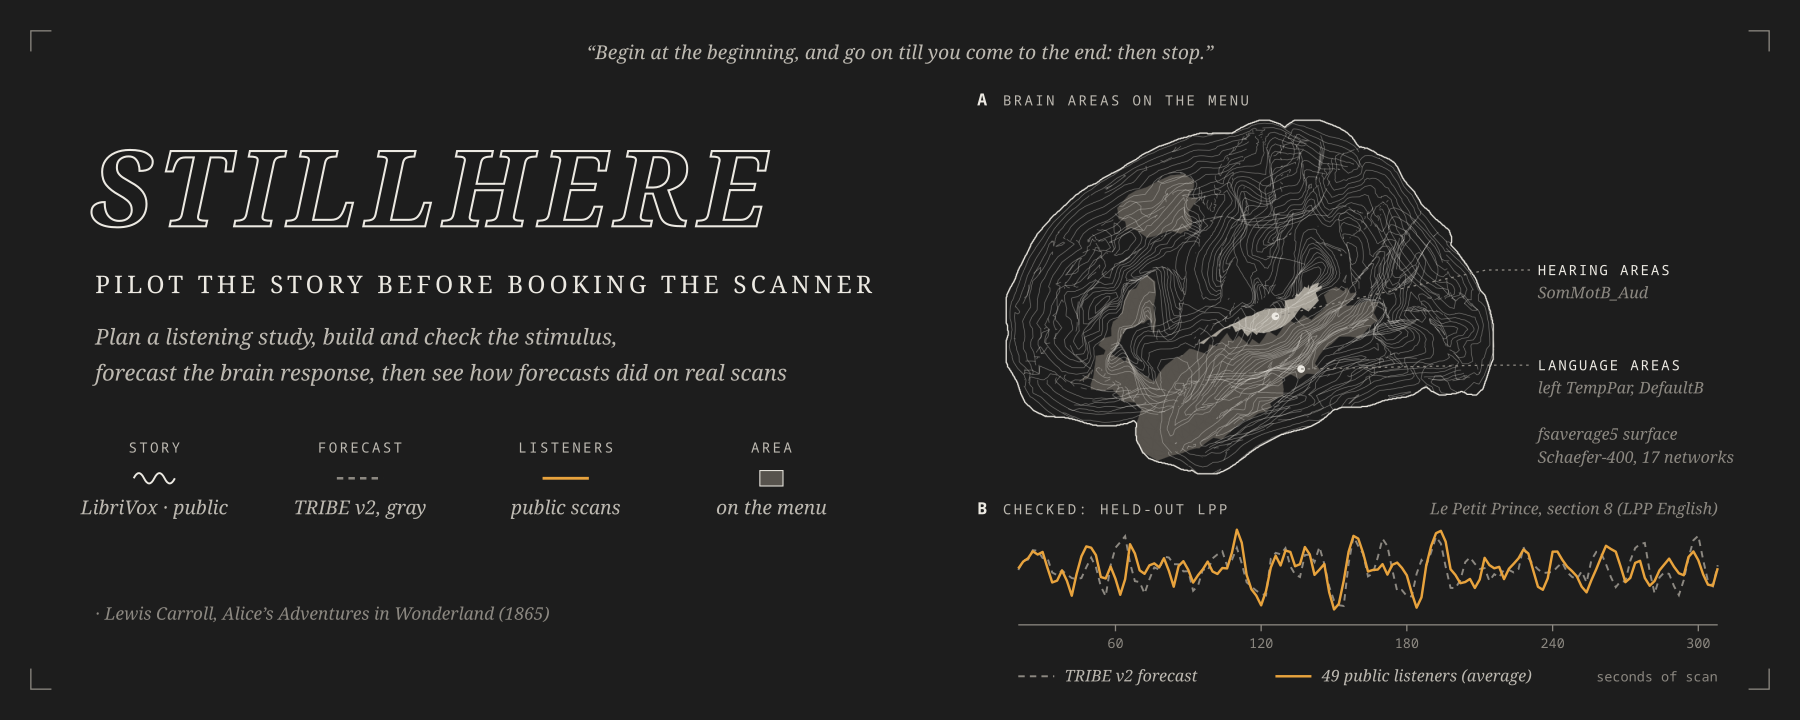
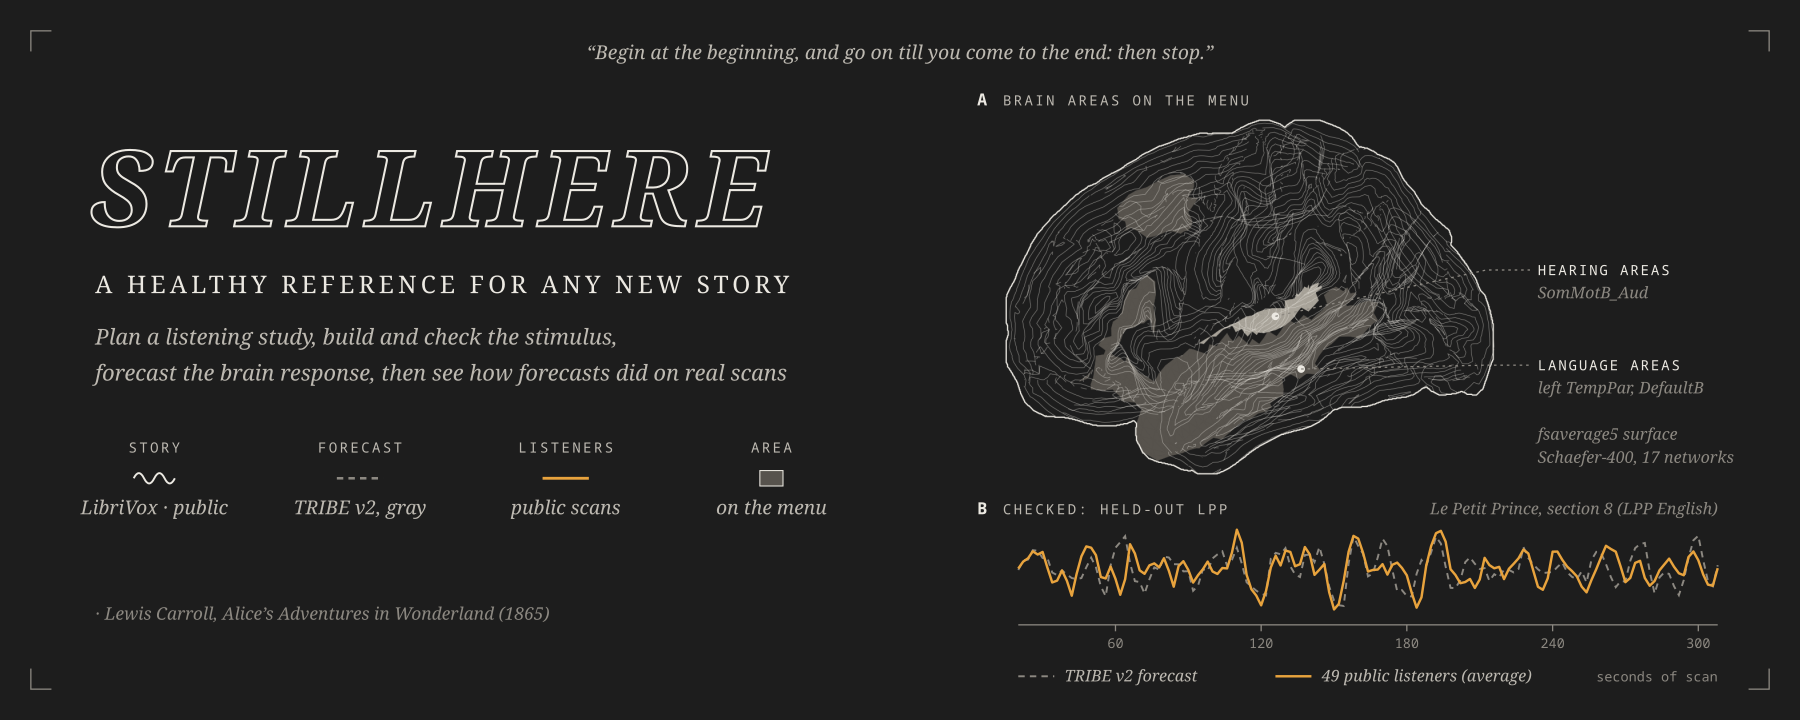
Tagline: a healthy-brain reference for any new story, before anyone is scanned (Yatsu, Nov 1)
Replaces 'Pilot the story before booking the scanner' in the README, the hero image (rebuilt with build_readme_art.py), the video's title cards and the page. The README's opening adds why it matters: a story in the person's own language, or read by someone they know, usually cannot be used, because every new story needs its own healthy volunteers scanned first. No number changed. Suite 554 passed, 10 skipped.

Changed region(s): [[0.0622, 0.3667, 0.4978, 0.4278]]

diff --git a/web/public/index.html b/web/public/index.html
@@ -9,10 +9,10 @@
 <link rel="stylesheet" href="/app.css">
 </head>
 <body>
-<header class="hero"><img src="/hero.png" width="1800" height="720" alt="StillHere: pilot the story before booking the scanner. Panel A: the brain areas on the menu, hearing and language, on a drawing of the left cortex. Panel B: TRIBE v2&#39;s forecast, gray dashed, and 49 public listeners (average), in colour, Le Petit Prince, section 8 (LPP English); checked: held-out LPP."></header>
+<header class="hero"><img src="/hero.png" width="1800" height="720" alt="StillHere: a healthy-brain reference for any new story, before anyone is scanned. Panel A: the brain areas on the menu, hearing and language, on a drawing of the left cortex. Panel B: TRIBE v2&#39;s forecast, gray dashed, and 49 public listeners (average), in colour, Le Petit Prince, section 8 (LPP English); checked: held-out LPP."></header>
 <main>
 <h1 class="vh">StillHere Pilot</h1>
-<p class="lead">Pilot the story before booking the scanner. Type a study; StillHere plans it, builds and checks the stimulus, and
+<p class="lead">A healthy-brain reference for any new story, before anyone is scanned. Type a study; StillHere plans it, builds and checks the stimulus, and
 forecasts the healthy-adult brain response with TRIBE v2, live on a laptop. Research tool. Healthy volunteers and public data only.</p>
 <p class="small" id="status-line">Loading live status.</p>
 <nav class="rail" aria-label="Stations">

diff --git a/scripts/build_readme_art.py b/scripts/build_readme_art.py
@@ -173,7 +173,7 @@ def hero_svg(ghost: dict, brain: bytes) -> str:
          f'B: {ghost["title"]}.">', f'<rect width="{W}" height="{H}" fill="{BG}"/>', crop_marks(W, H),
          T(700, 46, 15, EPIGRAPH, f'{SERIF} font-style="italic" fill="{MUTE}" text-anchor="middle"'),
          T(70, 176, 82, "STILLHERE", f'{SERIF} font-style="italic" font-weight="700" letter-spacing="7" fill="none" stroke="{INK}" stroke-width="1.6"'),
-         T(74, 228, 19, "PILOT THE STORY BEFORE BOOKING THE SCANNER", f'{SERIF} letter-spacing="3.2" fill="{INK}"'),
+         T(74, 228, 19, "A HEALTHY REFERENCE FOR ANY NEW STORY", f'{SERIF} letter-spacing="3.2" fill="{INK}"'),
          T(74, 268, 17, "Plan a listening study, build and check the stimulus,", f'{SERIF} font-style="italic" fill="{MUTE}"'),
          T(74, 296, 17, "forecast the brain response, then see how forecasts did on real scans", f'{SERIF} font-style="italic" fill="{MUTE}"')]
     key = (("STORY", f'<path fill="none" stroke="{INK}" stroke-width="1.5" d="M-16,0 q4,-8 8,0 t8,0 t8,0 t8,0"/>', "LibriVox · public"),

diff --git a/README.md b/README.md
@@ -4,7 +4,7 @@
 
 # StillHere
 
-### Pilot the story before booking the scanner
+### A healthy-brain reference for any new story, before anyone is scanned
 
 [![tests](https://github.com/Yatsuiii/stillhere/actions/workflows/tests.yml/badge.svg)](https://github.com/Yatsuiii/stillhere/actions/workflows/tests.yml)
 [![licence: MIT](https://img.shields.io/badge/licence-MIT-lightgrey.svg)](LICENSE)
@@ -12,8 +12,9 @@
 [![forecast card](https://img.shields.io/badge/forecast%20card-TRIBE%20v2-lightgrey.svg)](docs/MODEL_CARD.md)
 
 > Labs study people who can't respond after brain injury by playing them stories in the scanner. But every new story needs its own
-> 12-15 healthy volunteers scanned first, in that language. For a new story, StillHere gives labs a first reading with zero volunteer
-> scans, measured against each listener's own brain. It has been tested only in healthy volunteers.
+> 12-15 healthy volunteers scanned first, in that language. So a story in the person's own language, or read by someone they know,
+> usually cannot be used. For a new story, StillHere gives labs a first reading with zero volunteer scans, measured against each
+> listener's own brain. It has been tested only in healthy volunteers.
 
 StillHere is a research tool for brain-imaging labs. It plans a listening study from a tested menu, builds and checks the stimulus
 before anyone is scanned, and forecasts the healthy-adult brain response with Meta's TRIBE v2. On a held-out audiobook, the forecast
@@ -53,7 +54,7 @@ work.
 **Can a brain-response forecast give a lab its first healthy reference for a new story, before any volunteer is scanned, and how far
 can it be trusted?**
 
-**StillHere Pilot lets a lab pilot the story before booking the scanner.** A researcher types the study they want; Muse Spark 1.3
+**StillHere gives a lab a healthy-brain reference for a new story, before anyone is scanned.** A researcher types the study they want; Muse Spark 1.3
 turns it into a plan from a tested menu, or declines with the reason. StillHere builds the conditions, and Muse Voice Transcribe reads
 every one back before anyone is scanned. TRIBE v2 forecasts the brain response, live on a laptop. Gray is the forecast; colour is
 real listeners: on a held-out audiobook, the forecast was worth about 5 real volunteers, and at least 2.
